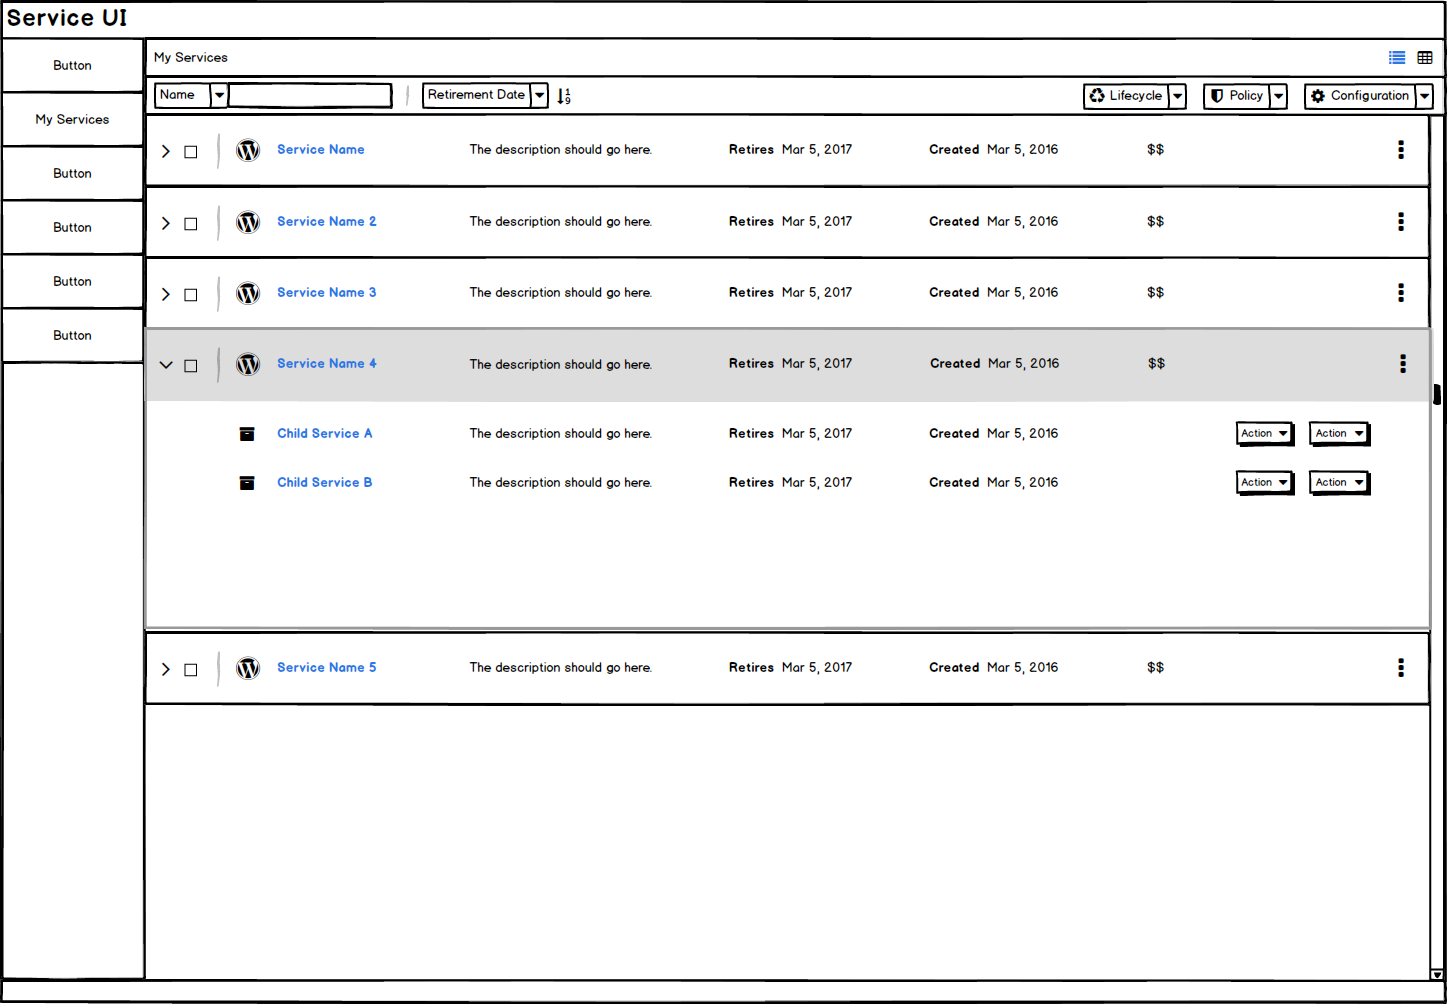
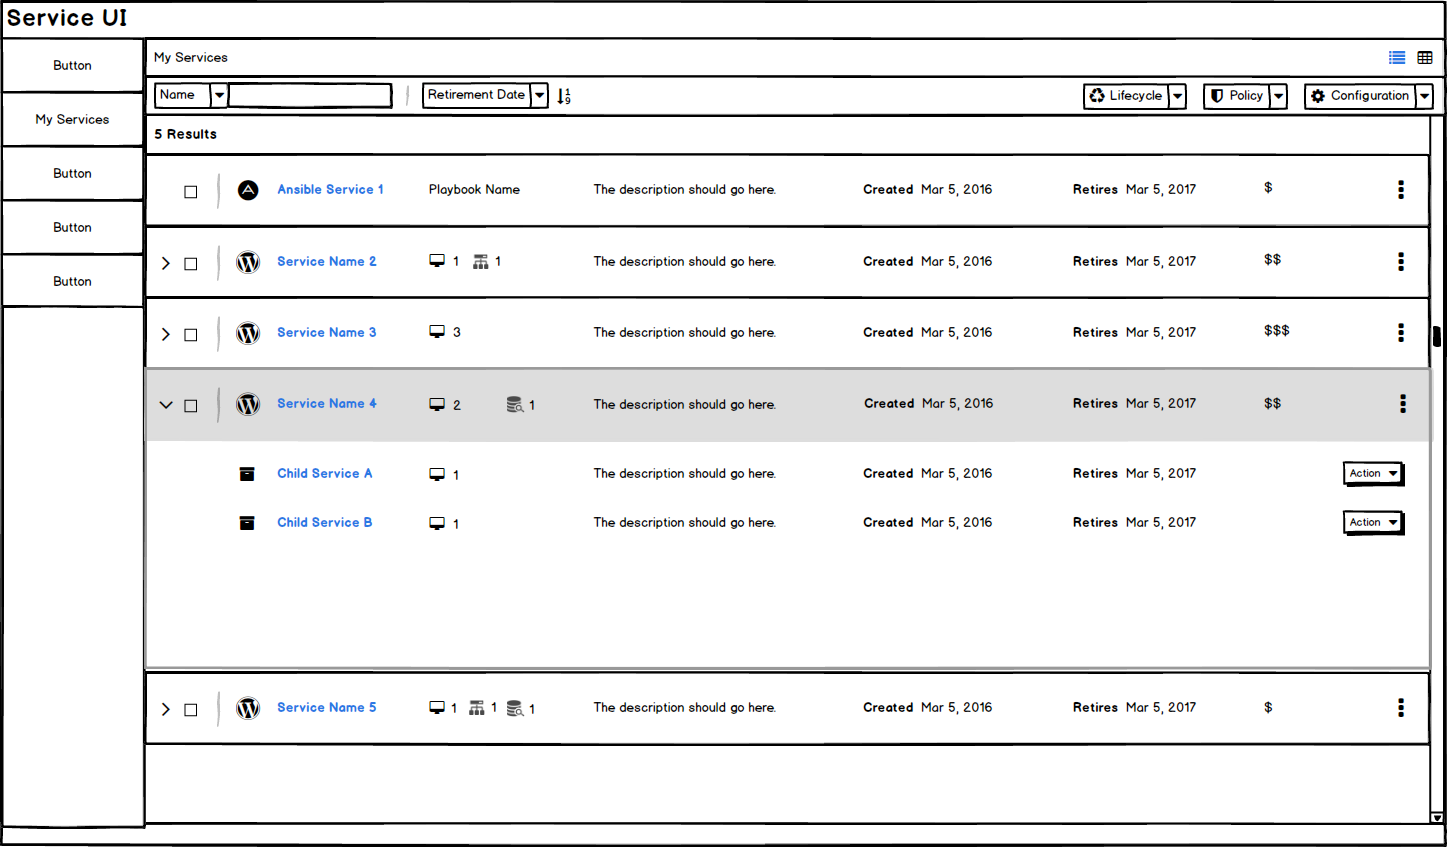
Updating myServices ListView and Adding Legacy and Ansible Service Details

diff --git a/UX/ui-service/MyServices/design.md b/UX/ui-service/MyServices/design.md
@@ -3,37 +3,52 @@
 * This area is for the end user
 * This area is provided so the user can view the current state and details of their services.
 
-## View My Services
-* A List View is the default view for My Services and it will not show all fields in this view.
+## Table View
 * A Table View is the secondary view that should be added once the PatternFly Angular Table is available. The table will show additional fields that may be missing from the List View.
 * Bulk actions can be accessed through the button groups at the top of the list.
 
-### List View
+## List View
+* A List View is the default view for My Services and it will not show all fields in this view.
+* Bulk actions can be accessed through the button groups at the top of the list.
 ![Image of List View.](img/Services-ListView.png)
 * The Service Names are links and will bring the user to a service details page.
-* The exact List View fields to be included are TBD.
+* Resources will be shown for legacy services when a VM, Network, or Storage resource exists. For Ansible services, the playbook name should appear for this column instead.
 * **Implementation Details:** Reference the Angular PatternFly Expandable List View Component.
+* **Research** Determine if the date should be called "Created" or "Ordered" in the list view.
 
-### List View - Expanded Row
+## List View - Expanded Row
 ![Image of Expanded List View.](img/Services-ExpandedListView.png)
 * Clicking anywhere on the row (aside from other links or buttons) will expand the row
 * Child Services are listed in the expanded portion. If no Child Services exist for a particular service, expand should not work and the caret icon should be hidden for that row.
 * Actions available for Child Services are TBD.
 * Child Services are also links and will bring the user to the child service details page.
 
-### Service Details (drilldown page)
+## Service Details (drilldown page)
 * When a single service is chosen, the service details page will be loaded.
 * The breadcrumbs will change to show My Services as a link back to the List View.
 * The service details will include the following view types: summary view, utilization dashboard, and topology view. The default should be the Summary View.
 
-#### Service - Summary View
-![Image of Detail View for a Service.](img/Services-DetailView.png)
-* The summary view will include the properties, resources, and relationships.
-1. **Properties:** General information should be listed in this section. Tags should be included at the bottom of the list. Utilization properties will be excluded from this section and will show up in the dashboard view instead.
-2. **Resources:** Resources will be divided into sections or headings (Ansible, Compute, Network, Storage). Each section can expand and collapse, with a compact list view of resources underneath. Individual resources will be listed as links so users can drill down to a specific resource details view.
-![Image of Detail View for a Resource.](img/Services-ResourceDetails.png)
+### Service Details - Summary View
+* The properties section at the top of the summary view will be consistent for ALL services.
+![Image of Detail View for a Service.](img/Services-GenericDetailView.png)
+* Properties will consist of general information, including tags. Utilization properties will be excluded from this section and will show up in the dashboard view instead.
+* The next section of the summary view will vary depending on the type of service the user has selected. For legacy services there will be a resources section and for Ansible services there will be a Results section.
+* Relationships would be the final section regardless of service type. Child Services will be listed as links here and will bring the user to the Child Service Summary View.
 
-3. **Relationships:** Child Services will be listed as links and will bring the user to the Child Service Summary View.
+#### Service Details - Summary View - Legacy Services
+* For legacy services, the next section under the properties will be the resources.
+![Image of Detail View for a Service.](img/Services-LegacyDetailView.png)
+* Resources will be divided into sections or headings (Compute, Network, and Storage). Each section can expand and collapse, with a compact list view of resources underneath.
+
+* Individual resources will be listed as links so users can drill down to a specific resource details view.
+![Image of Detail View for a Resource.](img/Services-ResourceDetails.png)
+* **Research** Determine actions available for resources. Should these be listed within the standard button groups?
+
+#### Service Details - Summary View - Ansible Services
+* For Ansible services, the next section under the properties will be the results and standard out.
+![Image of Detail View for a Service.](img/Services-AnsibleDetailView.png)
+* The Results section will have a basic set of information regarding the service, followed by a compact list view of plays.
+* The Standard Out section will include a log of the most recent information available from the time the page was loaded. If the play is still in progress, a status will appear on the right, along with a button to "Watch Live" details of the play. This live version will be displayed in a modal.
 
 #### Child Service - Summary View
 ![Image of Detail View for a Child Service.](img/Services-ChildDetailView.png)
@@ -41,10 +56,6 @@
 * The service details page will be in the same format as the Parent Service Detail page.
 
 
-## Customer Feedback
 
-### Customer Feedback Received
+## Customer Feedback Received
   - Overview of customer feedback received
-
-### Necessary Customer Feedback
-  - Questions to follow up with customers
